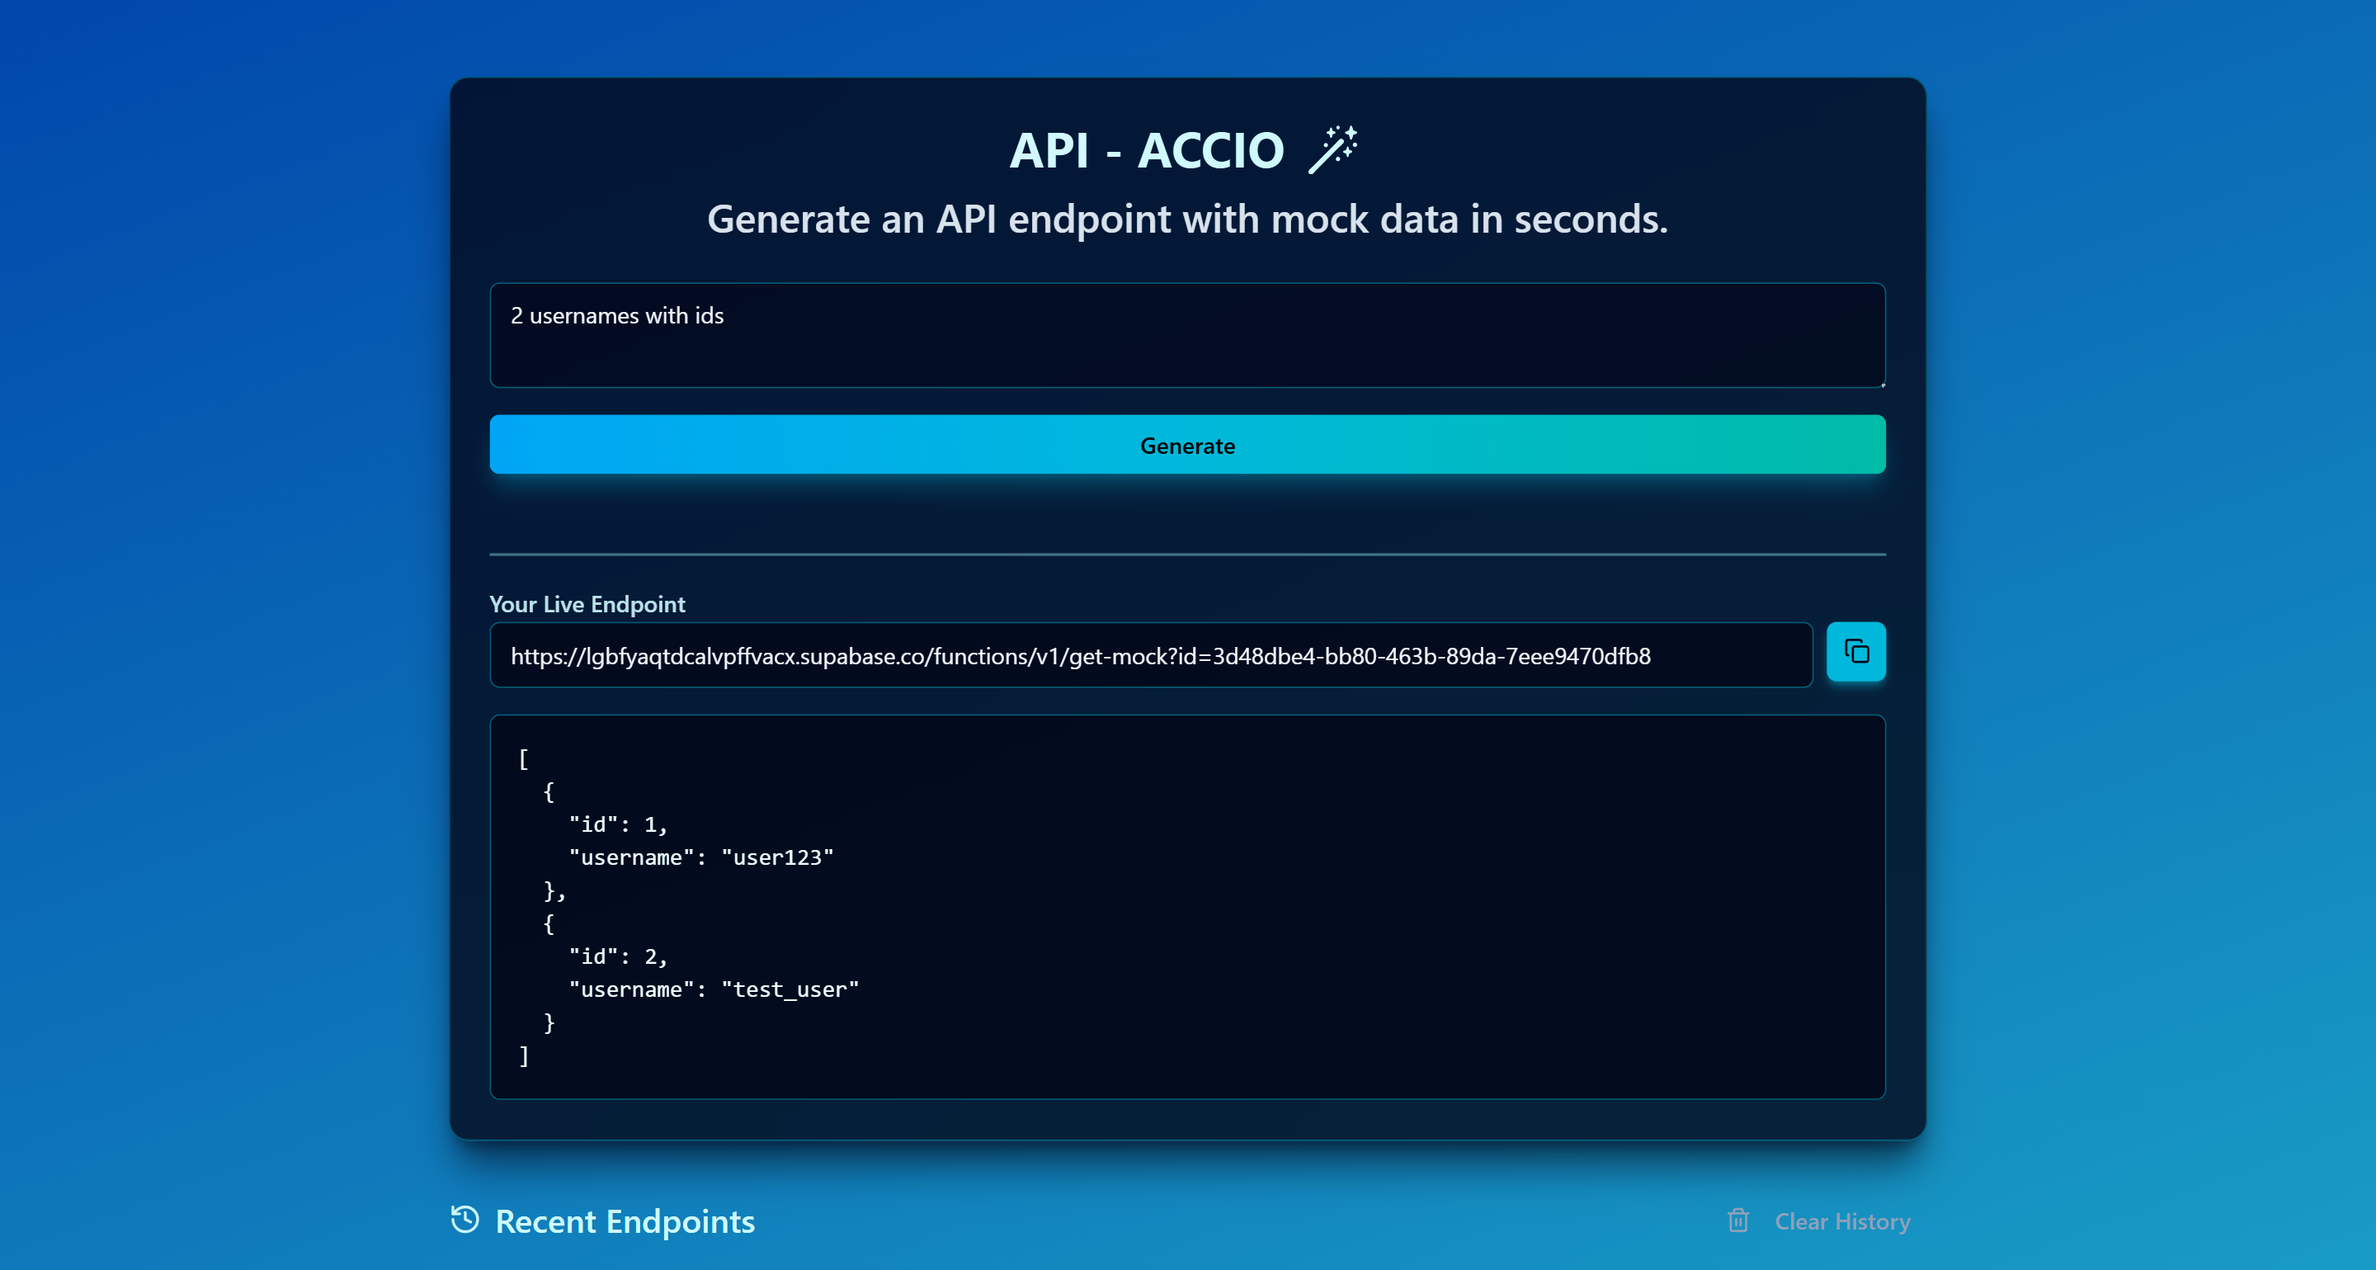
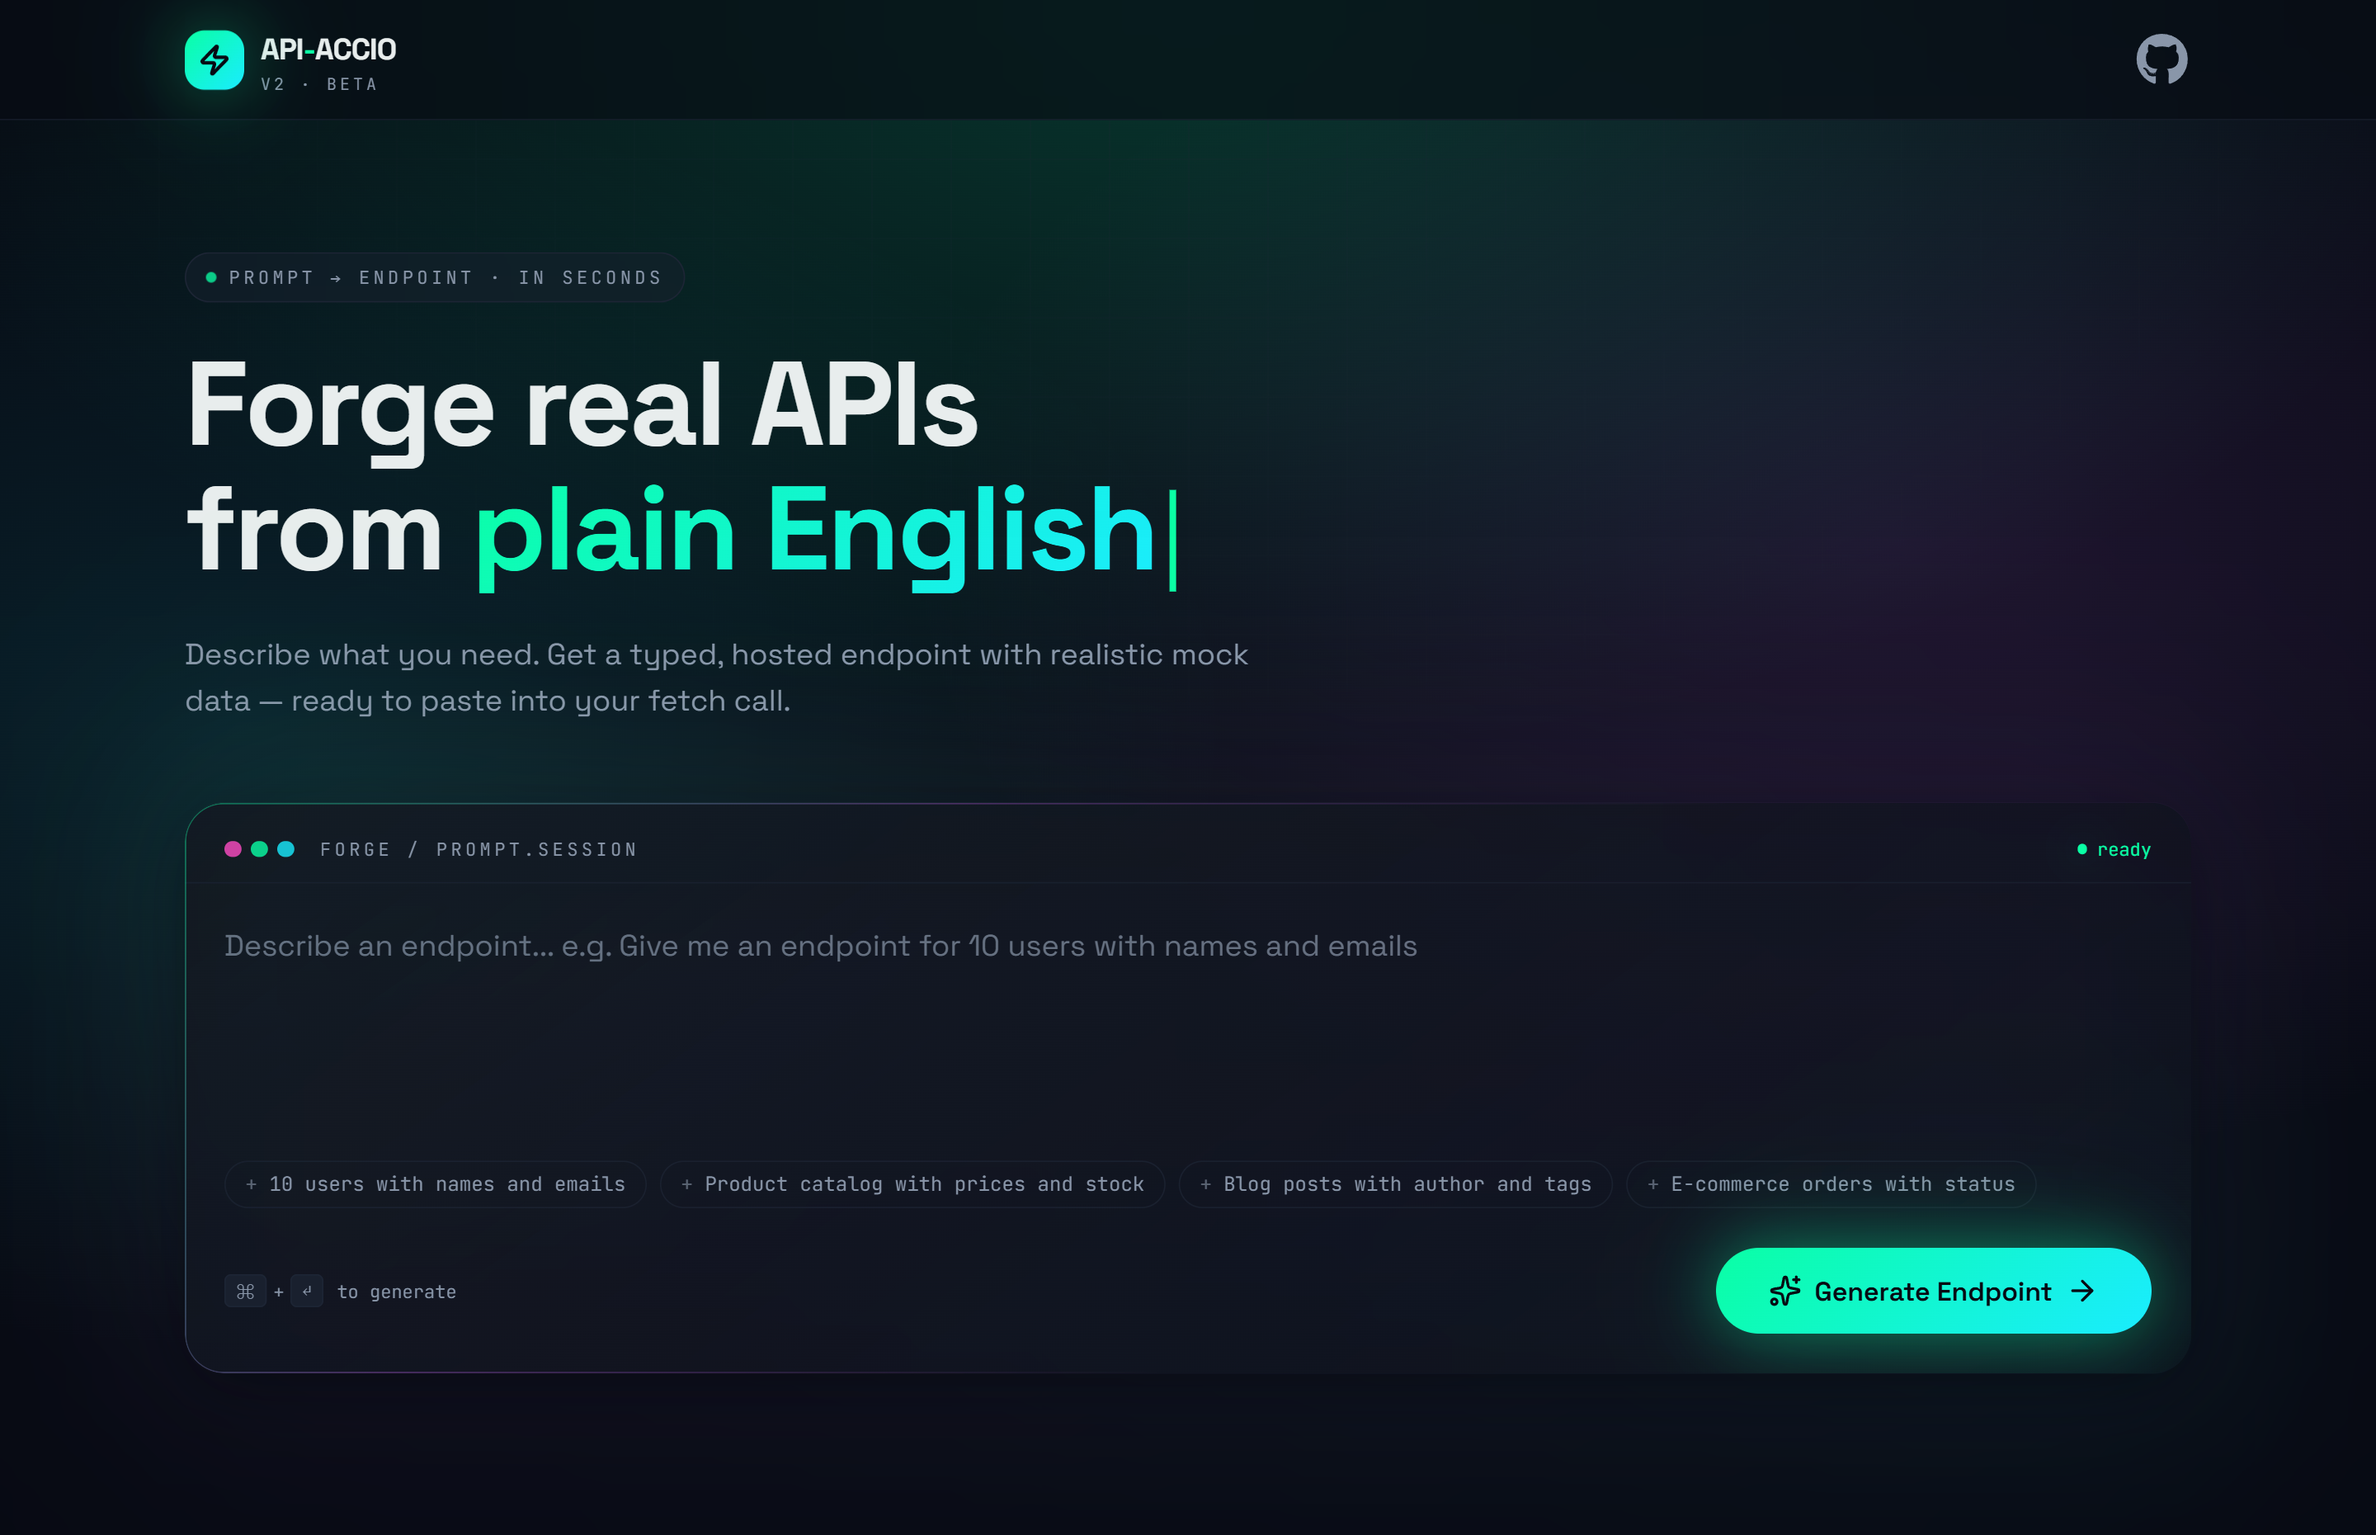
api- accio update

diff --git a/src/components/Projects.jsx b/src/components/Projects.jsx
@@ -9,9 +9,9 @@ const Projects = () => {
     {
       title: "API Accio",
       desc: "A Full-stack SaaS tool that converts natural language prompts into JSON data and generate  API endpoints using Gen AI",
-      tags: ["React", "Gemini API", "Supabse", "Tailwind"],
-      link: "https://api-accio.vercel.app/",
-      gitLink: "https://github.com/snehithvarma86/API-Accio",
+      tags: ["NextJS", "Gemini API", "Supabse", "Tailwind"],
+      link: "https://api-accio-v2.vercel.app/",
+      gitLink: "https://github.com/snehithvarma86/api-accio-v2",
       img: apiAccio2,
     },
     {
